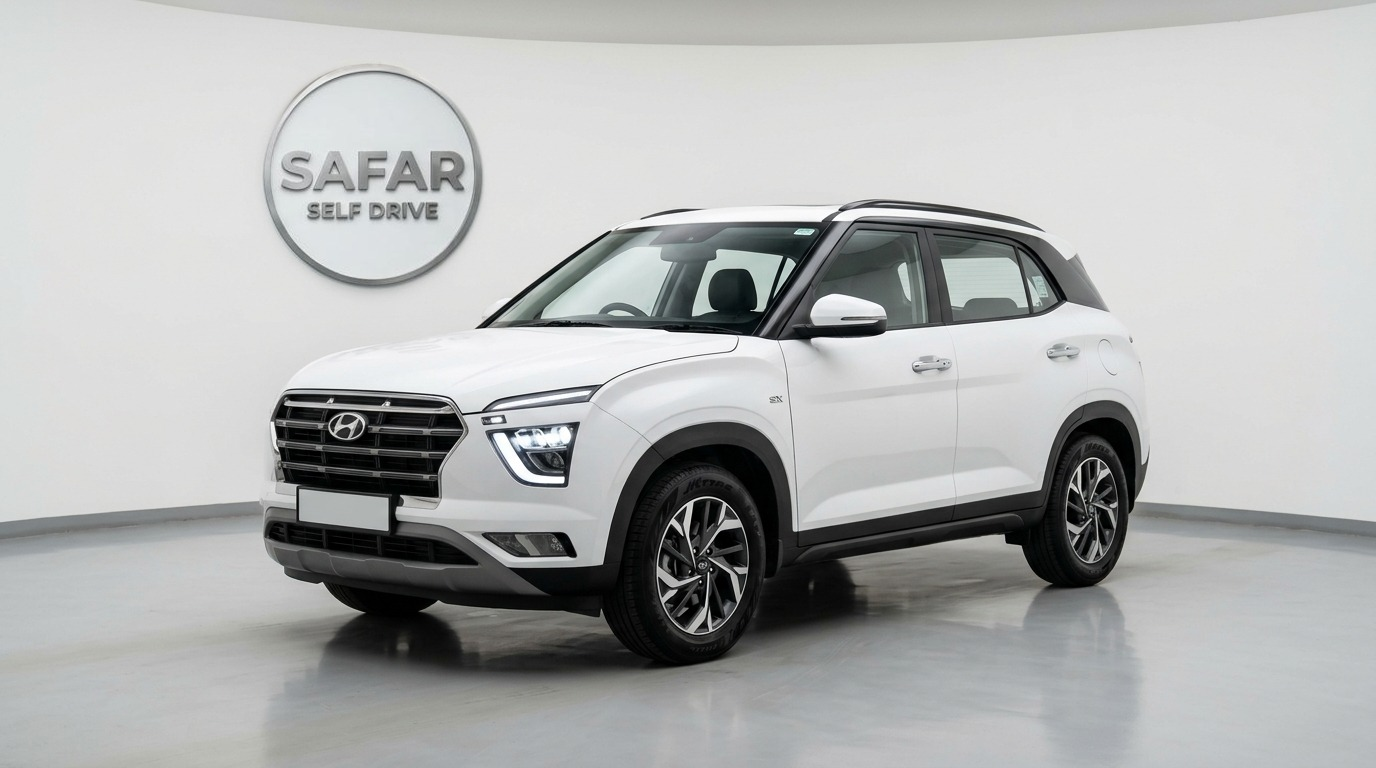
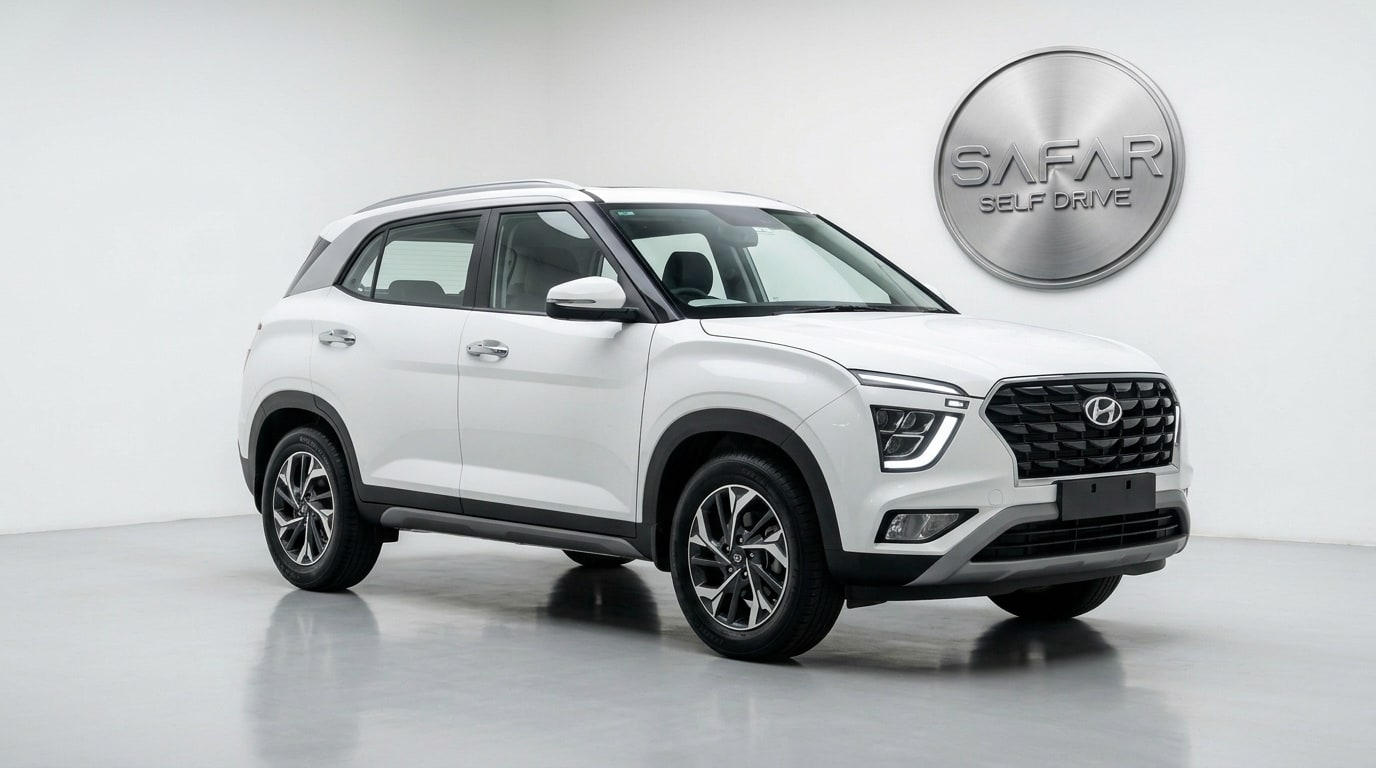
feat(fleet): align all vehicle studio photos to uniform 3/4 front-right angle with native Safar showroom emblem

diff --git a/apps/web/cars.html b/apps/web/cars.html
@@ -1,5 +1,5 @@
 <!doctype html>
-<html lang="en"><head><link rel="icon" type="image/png" href="safar-logo.png?v=20261111j"><meta charset="utf-8"><meta name="viewport" content="width=device-width,initial-scale=1"><meta name="theme-color" content="#3B1259"><title>Safar — Self Drive</title><link rel="stylesheet" href="portal.css?v=20261111j"><link rel="stylesheet" href="design-system.css?v=20261111j"><script>try{const t=localStorage.getItem('safar-theme');if(t)document.documentElement.dataset.theme=t}catch(e){}</script><script src="https://www.gstatic.com/firebasejs/10.8.0/firebase-app-compat.js"></script><script src="https://www.gstatic.com/firebasejs/10.8.0/firebase-auth-compat.js"></script><script src="portal.js?v=20261111j" defer></script>  <link rel="manifest" href="manifest.json">
+<html lang="en"><head><link rel="icon" type="image/png" href="safar-logo.png?v=20261111k"><meta charset="utf-8"><meta name="viewport" content="width=device-width,initial-scale=1"><meta name="theme-color" content="#3B1259"><title>Safar — Self Drive</title><link rel="stylesheet" href="portal.css?v=20261111k"><link rel="stylesheet" href="design-system.css?v=20261111k"><script>try{const t=localStorage.getItem('safar-theme');if(t)document.documentElement.dataset.theme=t}catch(e){}</script><script src="https://www.gstatic.com/firebasejs/10.8.0/firebase-app-compat.js"></script><script src="https://www.gstatic.com/firebasejs/10.8.0/firebase-auth-compat.js"></script><script src="portal.js?v=20261111k" defer></script>  <link rel="manifest" href="manifest.json">
   <meta name="apple-mobile-web-app-capable" content="yes">
   <meta name="apple-mobile-web-app-status-bar-style" content="black-translucent">
   <meta name="apple-mobile-web-app-title" content="Safar">
@@ -11,7 +11,7 @@
   <meta name="twitter:card" content="summary_large_image">
   <meta name="twitter:title" content="Safar Self Drive - Premier Car Rentals Across Gujarat">
   <meta name="twitter:description" content="Rent verified Mahindra Thar, Creta, Fortuner, Innova Crysta and luxury cars with transparent pricing and zero hidden fees.">
-  <meta name="twitter:image" content="https://safarselfdrive.com/cars/thar.jpg?v=20261111j">
+  <meta name="twitter:image" content="https://safarselfdrive.com/cars/thar.jpg?v=20261111k">
   <meta name="geo.region" content="IN-GJ">
   <meta name="geo.placename" content="Ahmedabad, Gujarat">
 </head><body class="cars-page"><header id="header" class="header"></header><main id="app" class="container cars-page-container"><div class="loading" role="status">Loading Safar…</div></main><footer class="footer"><div style="display:flex;align-items:center;gap:10px"><img src="safar-logo.png" alt="Safar" style="height:32px;width:32px;object-fit:contain;border-radius:50%;background:#fff"><span style="font-weight:700;color:var(--text-main)">Safar Self Drive</span> · <span style="color:var(--text-muted)">Your Journey. Your Rules.</span></div><span style="color:var(--text-muted)">Verified listings · DigiLocker eKYC · Transparent records</span></footer></body></html>

diff --git a/apps/web/index.html b/apps/web/index.html
@@ -1,5 +1,5 @@
 <!doctype html>
-<html lang="en"><head><link rel="icon" type="image/png" href="safar-logo.png?v=20261111j"><meta charset="utf-8"><meta name="viewport" content="width=device-width,initial-scale=1"><meta name="theme-color" content="#3B1259"><title>Safar — Self Drive</title><link rel="stylesheet" href="portal.css?v=20261111j"><link rel="stylesheet" href="design-system.css?v=20261111j"><script>try{const t=localStorage.getItem('safar-theme');if(t)document.documentElement.dataset.theme=t}catch(e){}</script><script src="https://www.gstatic.com/firebasejs/10.8.0/firebase-app-compat.js"></script><script src="https://www.gstatic.com/firebasejs/10.8.0/firebase-auth-compat.js"></script><script src="portal.js?v=20261111j" defer></script>  <link rel="manifest" href="manifest.json">
+<html lang="en"><head><link rel="icon" type="image/png" href="safar-logo.png?v=20261111k"><meta charset="utf-8"><meta name="viewport" content="width=device-width,initial-scale=1"><meta name="theme-color" content="#3B1259"><title>Safar — Self Drive</title><link rel="stylesheet" href="portal.css?v=20261111k"><link rel="stylesheet" href="design-system.css?v=20261111k"><script>try{const t=localStorage.getItem('safar-theme');if(t)document.documentElement.dataset.theme=t}catch(e){}</script><script src="https://www.gstatic.com/firebasejs/10.8.0/firebase-app-compat.js"></script><script src="https://www.gstatic.com/firebasejs/10.8.0/firebase-auth-compat.js"></script><script src="portal.js?v=20261111k" defer></script>  <link rel="manifest" href="manifest.json">
   <meta name="apple-mobile-web-app-capable" content="yes">
   <meta name="apple-mobile-web-app-status-bar-style" content="black-translucent">
   <meta name="apple-mobile-web-app-title" content="Safar">

diff --git a/apps/web/blog.html b/apps/web/blog.html
@@ -1,15 +1,15 @@
 <!doctype html>
 <html lang="en">
 <head>
-  <link rel="icon" type="image/png" href="safar-logo.png?v=20261111j">
+  <link rel="icon" type="image/png" href="safar-logo.png?v=20261111k">
   <meta charset="utf-8">
   <meta name="viewport" content="width=device-width,initial-scale=1">
   <meta name="theme-color" content="#3B1259">
   <title>Gujarat Self-Drive Road Trips &amp; Travel Guides — Safar Self Drive</title>
   <meta name="description" content="Discover top self-drive road trips from Ahmedabad, Surat, and Vadodara. Recommended itineraries for Statue of Unity, Saputara, Gir, Somnath, and Dwarka with car recommendations and route tips.">
-  <link rel="stylesheet" href="portal.css?v=20261111j">
-  <link rel="stylesheet" href="design-system.css?v=20261111j">
-  <script src="https://www.gstatic.com/firebasejs/10.8.0/firebase-app-compat.js"></script><script src="https://www.gstatic.com/firebasejs/10.8.0/firebase-auth-compat.js"></script><script src="portal.js?v=20261111j" defer></script>
+  <link rel="stylesheet" href="portal.css?v=20261111k">
+  <link rel="stylesheet" href="design-system.css?v=20261111k">
+  <script src="https://www.gstatic.com/firebasejs/10.8.0/firebase-app-compat.js"></script><script src="https://www.gstatic.com/firebasejs/10.8.0/firebase-auth-compat.js"></script><script src="portal.js?v=20261111k" defer></script>
   <link rel="manifest" href="manifest.json">
   <meta name="apple-mobile-web-app-capable" content="yes">
   <meta name="apple-mobile-web-app-status-bar-style" content="black-translucent">

diff --git a/apps/web/host-agreement.html b/apps/web/host-agreement.html
@@ -1,5 +1,5 @@
 <!doctype html>
-<html lang="en"><head><link rel="icon" type="image/png" href="safar-logo.png?v=20261111j"><meta charset="utf-8"><meta name="viewport" content="width=device-width,initial-scale=1"><meta name="theme-color" content="#3B1259"><title>Safar — Host Partner Agreement</title><link rel="stylesheet" href="portal.css?v=20261111j"><link rel="stylesheet" href="design-system.css?v=20261111j"><script src="https://www.gstatic.com/firebasejs/10.8.0/firebase-app-compat.js"></script><script src="https://www.gstatic.com/firebasejs/10.8.0/firebase-auth-compat.js"></script><script src="portal.js?v=20261111j" defer></script>  <link rel="manifest" href="manifest.json">
+<html lang="en"><head><link rel="icon" type="image/png" href="safar-logo.png?v=20261111k"><meta charset="utf-8"><meta name="viewport" content="width=device-width,initial-scale=1"><meta name="theme-color" content="#3B1259"><title>Safar — Host Partner Agreement</title><link rel="stylesheet" href="portal.css?v=20261111k"><link rel="stylesheet" href="design-system.css?v=20261111k"><script src="https://www.gstatic.com/firebasejs/10.8.0/firebase-app-compat.js"></script><script src="https://www.gstatic.com/firebasejs/10.8.0/firebase-auth-compat.js"></script><script src="portal.js?v=20261111k" defer></script>  <link rel="manifest" href="manifest.json">
   <meta name="apple-mobile-web-app-capable" content="yes">
   <meta name="apple-mobile-web-app-status-bar-style" content="black-translucent">
   <meta name="apple-mobile-web-app-title" content="Safar">

diff --git a/apps/web/admin.html b/apps/web/admin.html
@@ -1,5 +1,5 @@
 <!doctype html>
-<html lang="en"><head><link rel="icon" type="image/png" href="safar-logo.png?v=20261111j"><meta charset="utf-8"><meta name="viewport" content="width=device-width,initial-scale=1"><meta name="theme-color" content="#3B1259"><title>Safar — Self Drive</title><link rel="stylesheet" href="portal.css?v=20261111j"><link rel="stylesheet" href="design-system.css?v=20261111j"><script src="https://www.gstatic.com/firebasejs/10.8.0/firebase-app-compat.js"></script><script src="https://www.gstatic.com/firebasejs/10.8.0/firebase-auth-compat.js"></script><script src="portal.js?v=20261111j" defer></script>  <link rel="manifest" href="manifest.json">
+<html lang="en"><head><link rel="icon" type="image/png" href="safar-logo.png?v=20261111k"><meta charset="utf-8"><meta name="viewport" content="width=device-width,initial-scale=1"><meta name="theme-color" content="#3B1259"><title>Safar — Self Drive</title><link rel="stylesheet" href="portal.css?v=20261111k"><link rel="stylesheet" href="design-system.css?v=20261111k"><script src="https://www.gstatic.com/firebasejs/10.8.0/firebase-app-compat.js"></script><script src="https://www.gstatic.com/firebasejs/10.8.0/firebase-auth-compat.js"></script><script src="portal.js?v=20261111k" defer></script>  <link rel="manifest" href="manifest.json">
   <meta name="apple-mobile-web-app-capable" content="yes">
   <meta name="apple-mobile-web-app-status-bar-style" content="black-translucent">
   <meta name="apple-mobile-web-app-title" content="Safar">

diff --git a/apps/web/agreement.html b/apps/web/agreement.html
@@ -1,5 +1,5 @@
 <!doctype html>
-<html lang="en"><head><link rel="icon" type="image/png" href="safar-logo.png?v=20261111j"><meta charset="utf-8"><meta name="viewport" content="width=device-width,initial-scale=1"><meta name="theme-color" content="#3B1259"><title>Safar — Self Drive</title><link rel="stylesheet" href="portal.css?v=20261111j"><link rel="stylesheet" href="design-system.css?v=20261111j"><script src="https://www.gstatic.com/firebasejs/10.8.0/firebase-app-compat.js"></script><script src="https://www.gstatic.com/firebasejs/10.8.0/firebase-auth-compat.js"></script><script src="portal.js?v=20261111j" defer></script>  <link rel="manifest" href="manifest.json">
+<html lang="en"><head><link rel="icon" type="image/png" href="safar-logo.png?v=20261111k"><meta charset="utf-8"><meta name="viewport" content="width=device-width,initial-scale=1"><meta name="theme-color" content="#3B1259"><title>Safar — Self Drive</title><link rel="stylesheet" href="portal.css?v=20261111k"><link rel="stylesheet" href="design-system.css?v=20261111k"><script src="https://www.gstatic.com/firebasejs/10.8.0/firebase-app-compat.js"></script><script src="https://www.gstatic.com/firebasejs/10.8.0/firebase-auth-compat.js"></script><script src="portal.js?v=20261111k" defer></script>  <link rel="manifest" href="manifest.json">
   <meta name="apple-mobile-web-app-capable" content="yes">
   <meta name="apple-mobile-web-app-status-bar-style" content="black-translucent">
   <meta name="apple-mobile-web-app-title" content="Safar">

diff --git a/apps/web/auth.html b/apps/web/auth.html
@@ -1,5 +1,5 @@
 <!doctype html>
-<html lang="en"><head><link rel="icon" type="image/png" href="safar-logo.png?v=20261111j"><meta charset="utf-8"><meta name="viewport" content="width=device-width,initial-scale=1"><meta name="theme-color" content="#3B1259"><title>Safar — Self Drive</title><link rel="stylesheet" href="portal.css?v=20261111j"><link rel="stylesheet" href="design-system.css?v=20261111j"><script src="https://www.gstatic.com/firebasejs/10.8.0/firebase-app-compat.js"></script><script src="https://www.gstatic.com/firebasejs/10.8.0/firebase-auth-compat.js"></script><script src="portal.js?v=20261111j" defer></script>  <link rel="manifest" href="manifest.json">
+<html lang="en"><head><link rel="icon" type="image/png" href="safar-logo.png?v=20261111k"><meta charset="utf-8"><meta name="viewport" content="width=device-width,initial-scale=1"><meta name="theme-color" content="#3B1259"><title>Safar — Self Drive</title><link rel="stylesheet" href="portal.css?v=20261111k"><link rel="stylesheet" href="design-system.css?v=20261111k"><script src="https://www.gstatic.com/firebasejs/10.8.0/firebase-app-compat.js"></script><script src="https://www.gstatic.com/firebasejs/10.8.0/firebase-auth-compat.js"></script><script src="portal.js?v=20261111k" defer></script>  <link rel="manifest" href="manifest.json">
   <meta name="apple-mobile-web-app-capable" content="yes">
   <meta name="apple-mobile-web-app-status-bar-style" content="black-translucent">
   <meta name="apple-mobile-web-app-title" content="Safar">

diff --git a/apps/web/dashboard.html b/apps/web/dashboard.html
@@ -1,5 +1,5 @@
 <!doctype html>
-<html lang="en"><head><link rel="icon" type="image/png" href="safar-logo.png?v=20261111j"><meta charset="utf-8"><meta name="viewport" content="width=device-width,initial-scale=1"><meta name="theme-color" content="#3B1259"><title>Safar — Self Drive</title><link rel="stylesheet" href="portal.css?v=20261111j"><link rel="stylesheet" href="design-system.css?v=20261111j"><script src="https://www.gstatic.com/firebasejs/10.8.0/firebase-app-compat.js"></script><script src="https://www.gstatic.com/firebasejs/10.8.0/firebase-auth-compat.js"></script><script src="portal.js?v=20261111j" defer></script>  <link rel="manifest" href="manifest.json">
+<html lang="en"><head><link rel="icon" type="image/png" href="safar-logo.png?v=20261111k"><meta charset="utf-8"><meta name="viewport" content="width=device-width,initial-scale=1"><meta name="theme-color" content="#3B1259"><title>Safar — Self Drive</title><link rel="stylesheet" href="portal.css?v=20261111k"><link rel="stylesheet" href="design-system.css?v=20261111k"><script src="https://www.gstatic.com/firebasejs/10.8.0/firebase-app-compat.js"></script><script src="https://www.gstatic.com/firebasejs/10.8.0/firebase-auth-compat.js"></script><script src="portal.js?v=20261111k" defer></script>  <link rel="manifest" href="manifest.json">
   <meta name="apple-mobile-web-app-capable" content="yes">
   <meta name="apple-mobile-web-app-status-bar-style" content="black-translucent">
   <meta name="apple-mobile-web-app-title" content="Safar">

diff --git a/apps/web/host-onboarding.html b/apps/web/host-onboarding.html
@@ -1,5 +1,5 @@
 <!doctype html>
-<html lang="en"><head><link rel="icon" type="image/png" href="safar-logo.png?v=20261111j"><meta charset="utf-8"><meta name="viewport" content="width=device-width,initial-scale=1"><meta name="theme-color" content="#3B1259"><title>Safar — Self Drive</title><link rel="stylesheet" href="portal.css?v=20261111j"><link rel="stylesheet" href="design-system.css?v=20261111j"><script src="https://www.gstatic.com/firebasejs/10.8.0/firebase-app-compat.js"></script><script src="https://www.gstatic.com/firebasejs/10.8.0/firebase-auth-compat.js"></script><script src="portal.js?v=20261111j" defer></script>  <link rel="manifest" href="manifest.json">
+<html lang="en"><head><link rel="icon" type="image/png" href="safar-logo.png?v=20261111k"><meta charset="utf-8"><meta name="viewport" content="width=device-width,initial-scale=1"><meta name="theme-color" content="#3B1259"><title>Safar — Self Drive</title><link rel="stylesheet" href="portal.css?v=20261111k"><link rel="stylesheet" href="design-system.css?v=20261111k"><script src="https://www.gstatic.com/firebasejs/10.8.0/firebase-app-compat.js"></script><script src="https://www.gstatic.com/firebasejs/10.8.0/firebase-auth-compat.js"></script><script src="portal.js?v=20261111k" defer></script>  <link rel="manifest" href="manifest.json">
   <meta name="apple-mobile-web-app-capable" content="yes">
   <meta name="apple-mobile-web-app-status-bar-style" content="black-translucent">
   <meta name="apple-mobile-web-app-title" content="Safar">

diff --git a/apps/web/invoice.html b/apps/web/invoice.html
@@ -1,5 +1,5 @@
 <!doctype html>
-<html lang="en"><head><link rel="icon" type="image/png" href="safar-logo.png?v=20261111j"><meta charset="utf-8"><meta name="viewport" content="width=device-width,initial-scale=1"><meta name="theme-color" content="#3B1259"><title>Safar — Self Drive</title><link rel="stylesheet" href="portal.css?v=20261111j"><link rel="stylesheet" href="design-system.css?v=20261111j"><script src="https://www.gstatic.com/firebasejs/10.8.0/firebase-app-compat.js"></script><script src="https://www.gstatic.com/firebasejs/10.8.0/firebase-auth-compat.js"></script><script src="portal.js?v=20261111j" defer></script>  <link rel="manifest" href="manifest.json">
+<html lang="en"><head><link rel="icon" type="image/png" href="safar-logo.png?v=20261111k"><meta charset="utf-8"><meta name="viewport" content="width=device-width,initial-scale=1"><meta name="theme-color" content="#3B1259"><title>Safar — Self Drive</title><link rel="stylesheet" href="portal.css?v=20261111k"><link rel="stylesheet" href="design-system.css?v=20261111k"><script src="https://www.gstatic.com/firebasejs/10.8.0/firebase-app-compat.js"></script><script src="https://www.gstatic.com/firebasejs/10.8.0/firebase-auth-compat.js"></script><script src="portal.js?v=20261111k" defer></script>  <link rel="manifest" href="manifest.json">
   <meta name="apple-mobile-web-app-capable" content="yes">
   <meta name="apple-mobile-web-app-status-bar-style" content="black-translucent">
   <meta name="apple-mobile-web-app-title" content="Safar">

diff --git a/apps/web/kyc.html b/apps/web/kyc.html
@@ -1,5 +1,5 @@
 <!doctype html>
-<html lang="en"><head><link rel="icon" type="image/png" href="safar-logo.png?v=20261111j"><meta charset="utf-8"><meta name="viewport" content="width=device-width,initial-scale=1"><meta name="theme-color" content="#3B1259"><title>Safar — Self Drive</title><link rel="stylesheet" href="portal.css?v=20261111j"><link rel="stylesheet" href="design-system.css?v=20261111j"><script src="https://www.gstatic.com/firebasejs/10.8.0/firebase-app-compat.js"></script><script src="https://www.gstatic.com/firebasejs/10.8.0/firebase-auth-compat.js"></script><script src="portal.js?v=20261111j" defer></script>  <link rel="manifest" href="manifest.json">
+<html lang="en"><head><link rel="icon" type="image/png" href="safar-logo.png?v=20261111k"><meta charset="utf-8"><meta name="viewport" content="width=device-width,initial-scale=1"><meta name="theme-color" content="#3B1259"><title>Safar — Self Drive</title><link rel="stylesheet" href="portal.css?v=20261111k"><link rel="stylesheet" href="design-system.css?v=20261111k"><script src="https://www.gstatic.com/firebasejs/10.8.0/firebase-app-compat.js"></script><script src="https://www.gstatic.com/firebasejs/10.8.0/firebase-auth-compat.js"></script><script src="portal.js?v=20261111k" defer></script>  <link rel="manifest" href="manifest.json">
   <meta name="apple-mobile-web-app-capable" content="yes">
   <meta name="apple-mobile-web-app-status-bar-style" content="black-translucent">
   <meta name="apple-mobile-web-app-title" content="Safar">

diff --git a/apps/web/payment.html b/apps/web/payment.html
@@ -1,5 +1,5 @@
 <!doctype html>
-<html lang="en"><head><link rel="icon" type="image/png" href="safar-logo.png?v=20261111j"><meta charset="utf-8"><meta name="viewport" content="width=device-width,initial-scale=1"><meta name="theme-color" content="#3B1259"><title>Safar — Self Drive</title><link rel="stylesheet" href="portal.css?v=20261111j"><link rel="stylesheet" href="design-system.css?v=20261111j"><script src="https://www.gstatic.com/firebasejs/10.8.0/firebase-app-compat.js"></script><script src="https://www.gstatic.com/firebasejs/10.8.0/firebase-auth-compat.js"></script><script src="portal.js?v=20261111j" defer></script>  <link rel="manifest" href="manifest.json">
+<html lang="en"><head><link rel="icon" type="image/png" href="safar-logo.png?v=20261111k"><meta charset="utf-8"><meta name="viewport" content="width=device-width,initial-scale=1"><meta name="theme-color" content="#3B1259"><title>Safar — Self Drive</title><link rel="stylesheet" href="portal.css?v=20261111k"><link rel="stylesheet" href="design-system.css?v=20261111k"><script src="https://www.gstatic.com/firebasejs/10.8.0/firebase-app-compat.js"></script><script src="https://www.gstatic.com/firebasejs/10.8.0/firebase-auth-compat.js"></script><script src="portal.js?v=20261111k" defer></script>  <link rel="manifest" href="manifest.json">
   <meta name="apple-mobile-web-app-capable" content="yes">
   <meta name="apple-mobile-web-app-status-bar-style" content="black-translucent">
   <meta name="apple-mobile-web-app-title" content="Safar">
